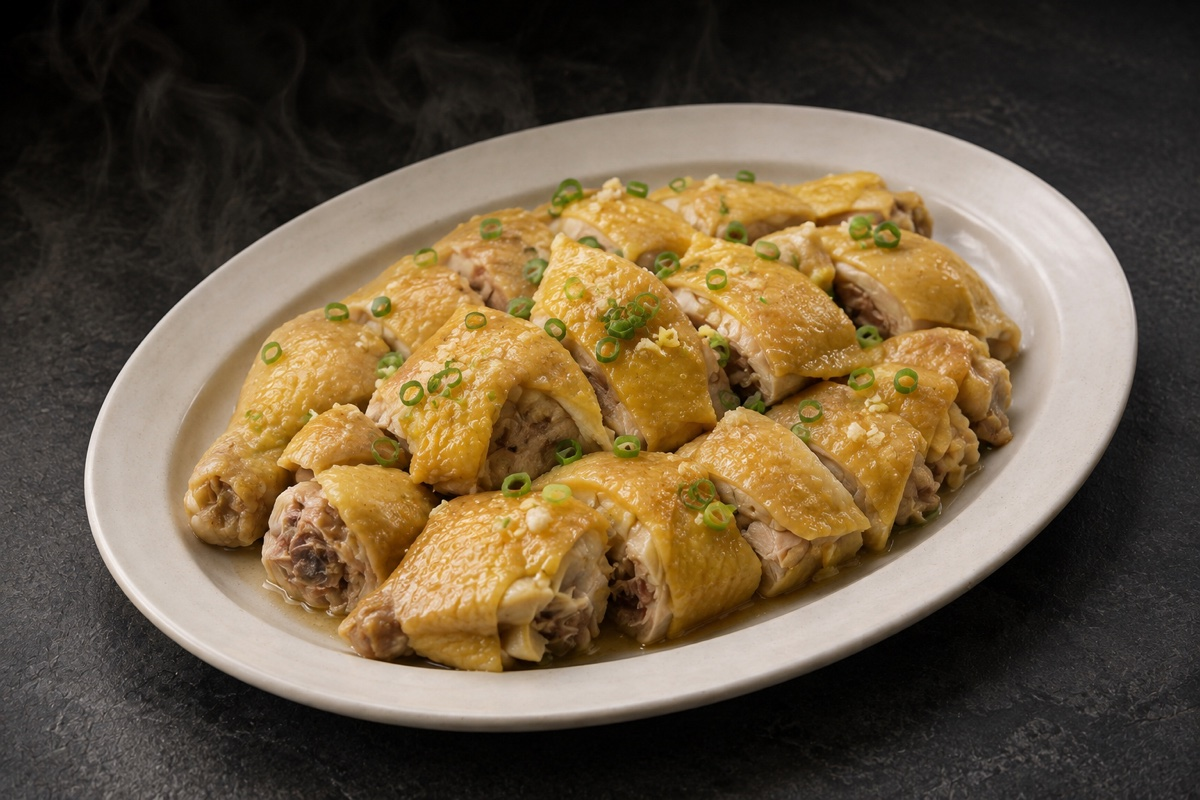
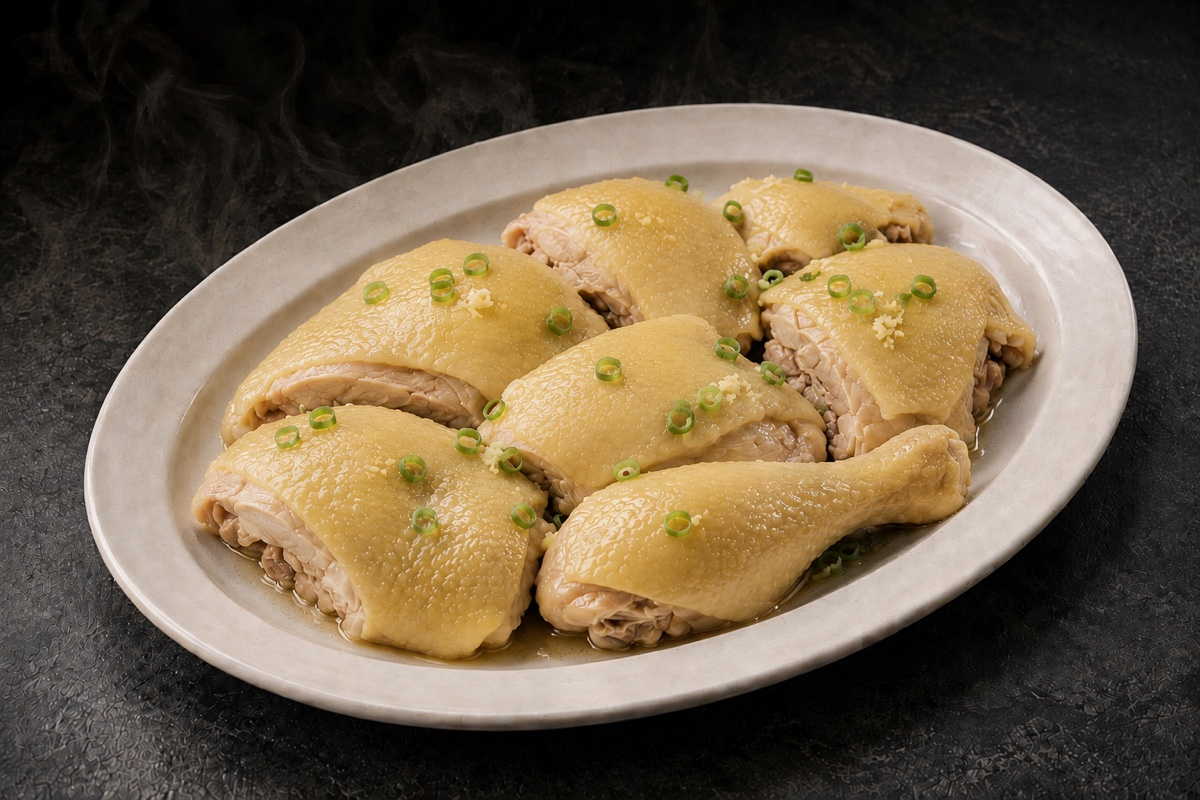
新增两道素菜并优化咸香鸡图片

diff --git a/script.js b/script.js
@@ -7,7 +7,7 @@ const CATEGORY_DEFINITIONS = [
 ];
 
 const STORAGE_KEY = "lanlan-menu-favorites-v1";
-const IMAGE_VERSION = "restaurant-photo-v1";
+const IMAGE_VERSION = "restaurant-photo-v3";
 const reducedMotion = window.matchMedia("(prefers-reduced-motion: reduce)").matches;
 
 const grid = document.getElementById("recipesGrid");
